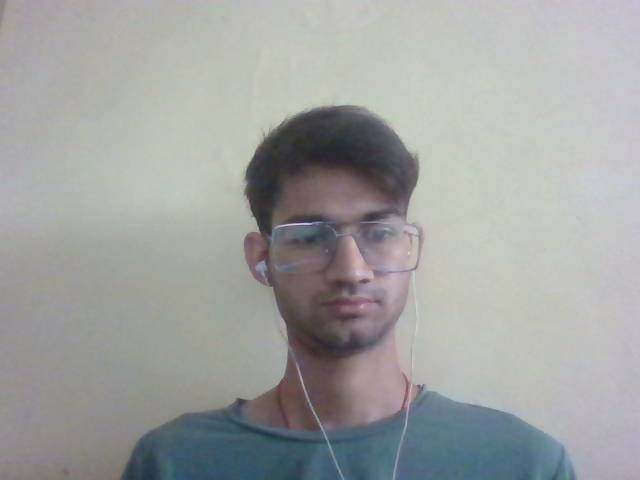
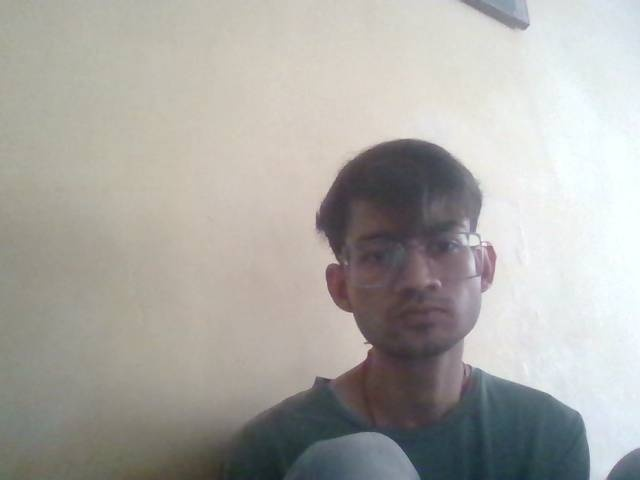
show and hide camera

diff --git a/client/src/components/CameraCapture.jsx b/client/src/components/CameraCapture.jsx
@@ -214,8 +214,8 @@ const CameraCapture = ({
   return (
     <div style={{
       position: 'fixed',
-      bottom: 20,
-      right: 20,
+      bottom: 110,
+      right: 1,
       zIndex: 1000,
       background: 'rgba(0,0,0,0.8)',
       borderRadius: '12px',
@@ -269,43 +269,44 @@ const CameraCapture = ({
       </div>
 
       {/* Video preview */}
-      {showPreview && (
-        <div style={{ position: 'relative' }}>
-          <video
-            ref={videoRef}
-            width={width / 2}  // Show preview at half resolution
-            height={height / 2}
-            style={{
-              display: 'block',
-              borderRadius: '8px',
-              transform: 'scaleX(-1)',  // Mirror effect
-              border: '1px solid #00d4ff'
-            }}
-            muted
-            playsInline
-          />
-          {error && (
-            <div style={{
-              position: 'absolute',
-              top: 0,
-              left: 0,
-              right: 0,
-              bottom: 0,
-              display: 'flex',
-              alignItems: 'center',
-              justifyContent: 'center',
-              background: 'rgba(0,0,0,0.9)',
-              color: '#ff4444',
-              padding: '10px',
-              fontSize: '11px',
-              textAlign: 'center',
-              borderRadius: '8px'
-            }}>
-              {error}
-            </div>
-          )}
-        </div>
-      )}
+      <div style={{
+        position: 'relative',
+        display: showPreview ? 'block' : 'none'
+      }}>
+        <video
+          ref={videoRef}
+          width={width / 2}  // Show preview at half resolution
+          height={height / 2}
+          style={{
+            display: 'block',
+            borderRadius: '8px',
+            transform: 'scaleX(-1)',  // Mirror effect
+            border: '1px solid #00d4ff'
+          }}
+          muted
+          playsInline
+        />
+        {error && (
+          <div style={{
+            position: 'absolute',
+            top: 0,
+            left: 0,
+            right: 0,
+            bottom: 0,
+            display: 'flex',
+            alignItems: 'center',
+            justifyContent: 'center',
+            background: 'rgba(0,0,0,0.9)',
+            color: '#ff4444',
+            padding: '10px',
+            fontSize: '11px',
+            textAlign: 'center',
+            borderRadius: '8px'
+          }}>
+            {error}
+          </div>
+        )}
+      </div>
 
       {/* Hidden canvas for frame capture */}
       <canvas

diff --git a/client/src/App.jsx b/client/src/App.jsx
@@ -1,5 +1,5 @@
 import { BrowserRouter as Router, Routes, Route } from "react-router-dom";
-import { Suspense, lazy } from "react";
+import { Suspense, lazy, useState } from "react";
 import GlobalGestureCursor from "./GlobalGestureCursor";
 import CameraCapture from "./components/CameraCapture";
 import HeritageStoryBook from "./HeritageStoryBook";
@@ -30,6 +30,8 @@ const LoadingSpinner = () => (
 );
 
 function App() {
+  const [showCameraPreview, setShowCameraPreview] = useState(false);
+
   return (
     <Router>
       <Suspense fallback={<LoadingSpinner />}>
@@ -49,12 +51,54 @@ function App() {
       {/* Browser-based gesture camera */}
       <CameraCapture
         enabled={true}
-        showPreview={true}
+        showPreview={showCameraPreview}
         targetFPS={30}
         quality={0.7}
         width={640}
         height={480}
       />
+      {/* Camera preview toggle button */}
+      <button
+        onClick={() => setShowCameraPreview(!showCameraPreview)}
+        style={{
+          position: 'fixed',
+          bottom: 20,
+          left: 20,
+          zIndex: 1001,
+          background: showCameraPreview ? '#00d4ff' : 'rgba(0, 0, 0, 0.8)',
+          color: showCameraPreview ? '#000' : '#00d4ff',
+          border: '2px solid #00d4ff',
+          borderRadius: '50%',
+          width: '60px',
+          height: '60px',
+          cursor: 'pointer',
+          display: 'flex',
+          flexDirection: 'column',
+          alignItems: 'center',
+          justifyContent: 'center',
+          fontSize: '24px',
+          fontFamily: 'Orbitron, sans-serif',
+          transition: 'all 0.3s ease',
+          boxShadow: '0 4px 15px rgba(0, 212, 255, 0.3)',
+          padding: '0'
+        }}
+        onMouseEnter={(e) => {
+          e.target.style.transform = 'scale(1.1)';
+          e.target.style.boxShadow = '0 6px 20px rgba(0, 212, 255, 0.5)';
+        }}
+        onMouseLeave={(e) => {
+          e.target.style.transform = 'scale(1)';
+          e.target.style.boxShadow = '0 4px 15px rgba(0, 212, 255, 0.3)';
+        }}
+        title={showCameraPreview ? "Hide Camera Preview" : "Show Camera Preview"}
+      >
+        <div style={{ lineHeight: '1' }}>
+          {showCameraPreview ? '👁' : '📷'}
+        </div>
+        <div style={{ fontSize: '8px', marginTop: '2px', fontWeight: 'bold' }}>
+          {showCameraPreview ? 'HIDE' : 'SHOW'}
+        </div>
+      </button>
     </Router>
   );
 }
